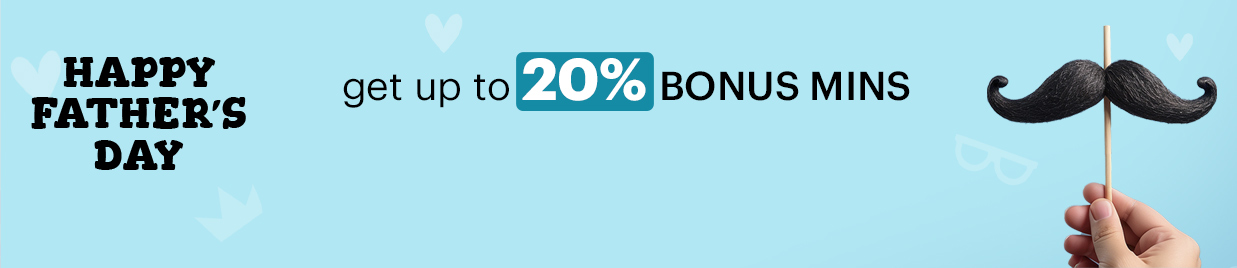
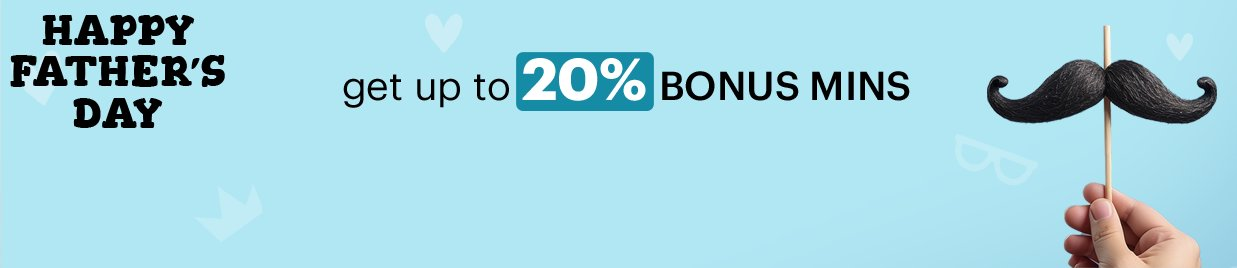
changes for father day promo

diff --git a/src/app/shared/components/deal-popup-view/deal-popup-view.component.scss b/src/app/shared/components/deal-popup-view/deal-popup-view.component.scss
@@ -1,6 +1,7 @@
 @import url("https://fonts.googleapis.com/css2?family=Montserrat:wght@900&display=swap");
 $background-color: #daf4f7;
 $background-image: url("../../../../assets/images/promotion/popup-bg.jpg");
+$background-image-mb: url("../../../../assets/images/promotion/popup-bg_mb.jpg");
 $percentage-color: #c75c2d;
 // $top-left : url('https://d2uij5nbaiduhc.cloudfront.net/images/promotion/top-left.png');
 // $top-right : url('https://d2uij5nbaiduhc.cloudfront.net/images/promotion/top-right.png');
@@ -212,7 +213,7 @@ h1 {
     border-radius: 0;
     position: absolute;
     background-size: cover;
-    background-position: center;
+    // background-position: center;
 }
 
 .popup-card {
@@ -350,18 +351,12 @@ h1 {
     .background-effect {
         //display: none;
         background: skyblue;
-  background-image: $background-image;
-  background-image: -webkit-image-set(
-    $background-image 1x,
-    $background-image 2x);
-  background-image: image-set(
-    $background-image 1x,
-    $background-image 2x);
-    background-position: center;
-    background-repeat: no-repeat;
-    background-size: cover;
-    background-color: #fff!important;
-    height: 155px;
+        background-image: $background-image-mb;
+        background-position: center;
+        background-repeat: no-repeat;
+        background-size: cover;
+        background-color: #fff!important;
+        height: 110px;
     }
     .box-wrapper {
         width: 85%;
